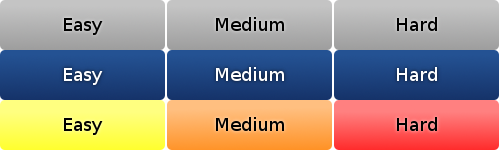
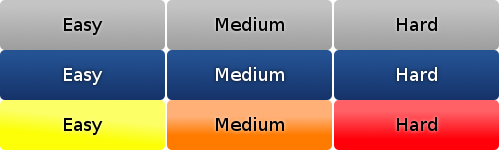
Tightened charts on deck_info page.  Added tags.  Created new rating selector buttons.

Changed region(s): [[0.0, 0.6667, 1.0, 1.0]]

diff --git a/app/webroot/css/deck_info.css b/app/webroot/css/deck_info.css
@@ -92,62 +92,101 @@ div.table_scroll {
     overflow-x: hidden;
 }
 
-div.table_scroll table.deck_table td {
-    padding: 0;
-}
-div.table_scroll table.deck_table th {
-    padding: 0;
+/** override default table padding and widths **/
+div.table_header table.deck_table {}
+div.table_header table.deck_table th { padding: 5px 0 }
+div.table_header table.deck_table td { padding: 0 }
+
+div.table_scroll table.deck_table { width: 670px }
+div.table_scroll table.deck_table th { padding: 0 }
+div.table_scroll table.deck_table td { padding: 10px 0 }
+div.table_scroll table.deck_table tr.shaded { background-color: #E8E8E8 }
+
+table.deck_table th.edit_rating,
+table.deck_table th.history { text-align: center }
+
+table.deck_table td.ord { text-align: center }
+table.deck_table td.term_defn {}
+table.deck_table td.rts_col { text-align: center }
+
+table.deck_table td.token { text-align: center; }
+table.deck_table td.token img {
+    display: block;
+    margin: 0 auto;
 }
 
-table.deck_table th.edit_rating, table.deck_table th.history {
-    text-align: center;
-}
-table.deck_table td.rts_col { text-align: center }
+/* bold question */
 table.deck_table td div.term { font-weight: bold }
-table.deck_table td.ord { text-align: center; }
 
 /*** card list tab ***/
+
 div#cards_tab table.deck_table col.col_num {
-    width: 20px;
+    width: 40px;
+}
+div#cards_tab table.deck_table col.col_term_defn {
+    width: 420px;
+}
+div#cards_tab table.deck_table col.col_rating {
+    width: 210px;
+}
+
+/*** quiz review tab ***/
+
+div#results_tab table.deck_table col.col_correct {
+    width: 40px;
     /*
     border: 1px solid red;
     */
 }
-div#cards_tab table.deck_table col.col_term_defn {
-    width: 300px;
+div#results_tab table.deck_table col.col_num {
+    width: 40px;
     /*
     border: 1px solid blue;
     */
 }
-div#cards_tab table.deck_table col.col_rating {
-    width: 200px;
+div#results_tab table.deck_table col.col_term_defn {
+    width: 230px;
     /*
-    border: 1px solid green;
+    border: 1px solid red;
+    */
+}
+div#results_tab table.deck_table col.col_history {
+    width: 150;
+    /*
+    border: 1px solid blue;
+    */
+}
+div#results_tab table.deck_table col.col_rating {
+    width: 210px;
+    /*
+    border: 1px solid red;
     */
 }
 
-/*** quiz review tab ***/
-div#results_tab table.deck_table col.col_correct { width: 5% }
-div#results_tab table.deck_table col.col_num { width: 5% }
-div#results_tab table.deck_table col.col_term_defn { width: 45% }
-div#results_tab table.deck_table col.col_history { width: 20% }
-div#results_tab table.deck_table td.history { text-align: center; }
-div#results_tab table.deck_table td.history img {
-    display: block;
-    margin: 0 auto;
-}
-div#results_tab table.deck_table col.col_rating { width: 25% }
+/** summary section end of quiz review **/
 
 div#summary {
     font-size: 30px;
     font-weight: bold;
-    width: 450px;
-    margin: 10px auto 0 auto;
+    width: 350px;
+    margin: 20px auto;
+    overflow: auto;
+    text-align: center;
 }
 div#summary img {
+    margin: 10px 0;
     float: left;
 }
 div#summary div#grade {
     float: left;
     margin: 40px 0 0 0;
 }
+
+/*** stats tab ***/
+
+div#stats_tab h3 {
+    font-weight: bold;
+    font-size: 14px;
+    display: inline;
+}
+

diff --git a/app/webroot/css/deck_rts_wdg.css b/app/webroot/css/deck_rts_wdg.css
@@ -2,9 +2,9 @@
 
 .rts {
     position: relative;
-    width: 224px;
-    height: 33px;
-    background: url(/img/rts.jpg) no-repeat;
+    width: 195px;
+    height: 25px;
+    background: url("/img/rts_info.png") no-repeat;
     margin: 0 auto 0 auto;
     padding: 0;
     cursor: pointer;
@@ -17,7 +17,7 @@
     list-style: none;
 }
 .rts li, .rts a {
-    height: 33px;
+    height: 25px;
     display: block;
     text-decoration: none;
     font-weight: bold;
@@ -25,51 +25,41 @@
 }
 
 /** easy button style effects **/
-.easy   { left: 0; width: 74px; }
+.easy   { left: 0; width: 65px; }
 .rts-easy, .rts-easy-click {
     position: absolute;
     left: 0;
-    width: 74px;
-    height: 33px;
-    background: transparent url(/img/rts.jpg) 0 -34px no-repeat;
-    /*background-color: #011d83;*/
+    width: 65px;
+    height: 25px;
+    background: transparent url("/img/rts_info.png") 0 -25px no-repeat;
 }
 .rts-easy-click {
-    background: transparent url(/img/rts.jpg) 0 -68px no-repeat;
-    /*background-color: #029c2e;*/
+    background: transparent url("/img/rts_info.png") 0 -50px no-repeat;
 }
 
 /** medium button style effects **/
-.medium { left: 75px; width: 74px; }
+.medium { left: 65px; width: 65px; }
 .rts-medium, .rts-medium-click {
     position: absolute;
-    left: 75px;
-    width: 74px;
-    height: 33px;
-    background: transparent url(/img/rts.jpg) -75px -34px no-repeat;
-    /*background-color: #011d83;*/
+    left: 65px;
+    width: 65px;
+    height: 25px;
+    background: transparent url("/img/rts_info.png") -65px -25px no-repeat;
 }
 .rts-medium-click {
-    background: transparent url(/img/rts.jpg) -75px -68px no-repeat;
-    /*background-color: #fcd854;*/
+    background: transparent url("/img/rts_info.png") -65px -50px no-repeat;
 }
 
 
 /** hard button style effects **/
-.hard   { left: 149px; width: 74px; }
+.hard   { left: 130px; width: 65px; }
 .rts-hard, .rts-hard-click {
     position: absolute;
-    left: 149px;
-    width: 74px;
-    height: 33px;
-    background: transparent url(/img/rts.jpg) -150px -34px no-repeat;
-    /*
-    background-color: #011d83;
-    */
+    left: 130px;
+    width: 65px;
+    height: 25px;
+    background: transparent url("/img/rts_info.png") -130px -25px no-repeat;
 }
 .rts-hard-click {
-    background: transparent url(/img/rts.jpg) -150px -68px no-repeat;
-    /*
-    background-color: #b30000;
-    */
+    background: transparent url("/img/rts_info.png") -130px -50px no-repeat;
 }

diff --git a/app/webroot/js/deck_info.js b/app/webroot/js/deck_info.js
@@ -10,6 +10,7 @@ DeckInfoUI = {
     table:null,
     resultsTable:null,
     RATING_MAP:new Array("unrated","easy","medium","hard"),
+    CARD_ID_INDEX:1,
 
     'init':function() {
         // Pass global deck JSON data
@@ -46,7 +47,7 @@ DeckInfoUI = {
 
             // Get ID of card from class attribute
             var cArr = ($(this).attr("class")).split(" ");
-            var idArr = cArr[cArr.length-1].split("_");
+            var idArr = cArr[obj.CARD_ID_INDEX].split("_");
             var id = idArr[idArr.length-1];
 
             // Insert widget into DOM
@@ -98,14 +99,15 @@ DeckInfoUI = {
                 label.text(labelStr);
                 $("input", this).removeAttr('disabled');
                 $("label", this).removeAttr('class');
-                if(ratingCount == totalCards) {
-                    $("input", this).attr('checked','checked');
+                $("input", this).attr('checked','checked');     // auto-select
+                // Uncheck previous if there is medium or hard
+                if(ratingStr == 'medium') {
+                    $("input", $(this).prev()).attr('checked','');
                 }
-                /*
-                else {
-                    $("input", this).removeAttr('checked');
+                if(ratingStr == 'hard') {
+                    $("input", $(this).prev()).attr('checked','');
+                    $("input", $(this).prev().prev()).attr('checked','');
                 }
-                */
             }
             else {
                 labelStr = origLabelStr + " (0)";
@@ -144,7 +146,7 @@ DeckInfoUI = {
         var modeEdit = true;
 
         // Change 'Edit' text
-        var ctrlElt = $("span span u", obj);
+        var ctrlElt = $(obj);
         var text = ctrlElt.text();
         if(text == editTxt) {
             ctrlElt.text(updateTxt);

diff --git a/app/webroot/css/styles.css b/app/webroot/css/styles.css
@@ -258,8 +258,8 @@ table.deck_table th {
     padding: 3px;
     background: #B7C9E6;
     color: #039;
-    border-top: 1px solid #003366;
-    border-bottom: 1px solid #003366;
+    border-top: 1px solid #E8E8E8;
+    border-bottom: 1px solid #E8E8E8;
 }
 
 table.deck_table td {

diff --git a/app/controllers/decks_controller.php b/app/controllers/decks_controller.php
@@ -116,7 +116,7 @@ class DecksController extends AppController {
     }
 
 	//action for exploring decks
-	function explore($sortBy = null,$page = null,$query = null)
+	function explore($sortBy = null, $page = null, $query = null)
     {   
     
         App::import('Sanitize');
@@ -535,6 +535,40 @@ class DecksController extends AppController {
     }
 
     /*
+     * Get tags for a deck
+     */
+    private function getTags($deckId)
+    {
+        // Close recursive associations
+        $this->Deck->DeckTag->recursive = -1;
+        $this->Tag->recursive = -1;
+
+        // Get tag Ids
+        $dtParams = array(
+                        'conditions' => array('DeckTag.deck_id' => $deckId),
+                        'fields' => array('DeckTag.id', 'DeckTag.tag_id'));
+        $dtRecords = $this->Deck->DeckTag->find('all', $dtParams);
+
+        $tagIds = array();
+        foreach($dtRecords as $dt) {
+           array_push($tagIds, $dt['DeckTag']['tag_id']); 
+        }
+
+        // Get tags
+        $tParams = array(
+                        'conditions' => array('Tag.id' => $tagIds),
+                        'fields' => array('Tag.id', 'Tag.tag'));
+        $tRecords = $this->Tag->find('all', $tParams);
+
+        $tags = array();
+        foreach($tRecords as $t) {
+            array_push($tags, $t['Tag']['tag']);
+        }
+        return $tags;
+
+    }
+
+    /*
     * Deck landing page
     *
     */
@@ -567,6 +601,9 @@ class DecksController extends AppController {
         // Call helpers to post-process data
         $cardIds = $this->getCardIds($cardRecords);
 
+        // Get tags
+        $tags = $this->getTags($deckId);
+
         // Deprecated?
         //$ratingsCount = $this->getRatingsCount($cardRecords);
         //$this->set('cardsRatingsCount',$ratingsCount);
@@ -588,6 +625,7 @@ class DecksController extends AppController {
         $this->set('cardsIndexed',$indexedCardRecords);
         $this->set('cardsResults',$resultMap);
         $this->set('userQuizCount', $myDeckResults['MyDeck']['quiz_count']);
+        $this->set('tags', $tags);
     }
 
   /*
